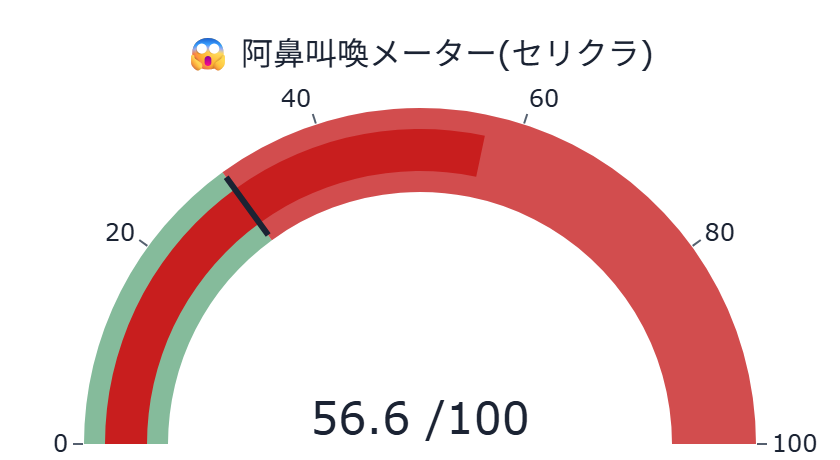
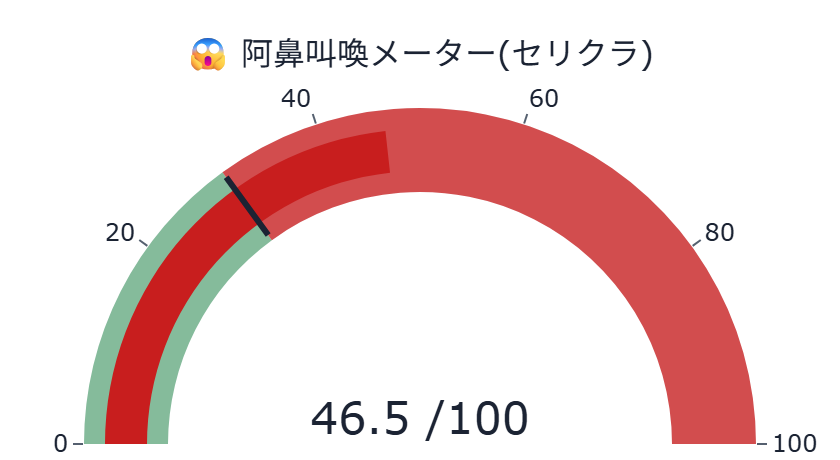
auto: refresh static dashboard (2026-08-25 00:50:18 JST)

Changed region(s): [[0.4333, 0.2739, 0.5881, 0.3957], [0.4333, 0.8522, 0.4952, 0.9435], [0.3714, 0.8522, 0.4024, 0.9435]]

diff --git a/docs/index.html b/docs/index.html
@@ -86,7 +86,7 @@
         <span class="price">50,930円</span>
         <span class="chg" style="color:#8B94A3">—</span>
       </div>
-      <p class="caption">更新時刻: 2026-08-25T00:38:35（データは1分間隔で自動生成され、このページも
+      <p class="caption">更新時刻: 2026-08-25T00:49:02（データは1分間隔で自動生成され、このページも
       60秒毎に自動再読み込みされます）</p>
       
       <p id='visit-count-badge' class='caption' style='display:none'></p>
@@ -105,7 +105,7 @@
           <h3>ボラ・レジーム帯</h3>
           <figure><img src='images/regime_band.png' alt='ボラ・レジーム帯' loading='lazy'></figure>
           <p class='caption'>現在レジーム: 較正中　(BVP=0.13)</p>
-          <div class='metric-row'><div class='metric-card'><div class='metric-label'>PTS（08/25 00:23）</div><div class='metric-value'>49,300円</div><div class='metric-delta' style='color:#1D4ED8'>-3.20%</div></div><div class='metric-card'><div class='metric-label'>米国ADR（08/25 00:44）</div><div class='metric-value'>49,877円</div><div class='metric-delta' style='color:#1D4ED8'>-2.07%</div></div></div><p class='caption'>PTS=東証取引時間外の私設取引システム／ADR=米国預託証券。翌営業日の値動きの参考情報です(それ自体が売買シグナルではありません)。</p>
+          <div class='metric-row'><div class='metric-card'><div class='metric-label'>PTS（08/25 00:23）</div><div class='metric-value'>49,300円</div><div class='metric-delta' style='color:#1D4ED8'>-3.20%</div></div><div class='metric-card'><div class='metric-label'>米国ADR（08/25 00:48）</div><div class='metric-value'>50,194円</div><div class='metric-delta' style='color:#1D4ED8'>-1.45%</div></div></div><p class='caption'>PTS=東証取引時間外の私設取引システム／ADR=米国預託証券。翌営業日の値動きの参考情報です(それ自体が売買シグナルではありません)。</p>
         </div>
       </div>
 
@@ -115,11 +115,11 @@
       <div class='info-box'>📌 前回の取引日(2026-08-24)からの状態変化: 「そう思う大量票」警戒→OK、「ネームド集中」OK→発火、「他銘柄混入率」警戒→発火、「暴落煽り語彙」警戒→OK、「阿鼻叫喚(セリクラ)」警戒→発火、「話題枯れ」OK→発火</div>
       <div class="panel"><div class='signal-row'><div class='signal-name'>灼熱メーター(過熱)<div class='signal-desc'>掲示板全体の強気/弱気の偏りと投稿の勢いから算出した「過熱度」の合成指標。</div></div><div class='signal-note'>過熱スコア6.1 (閾値36)</div><div><span style='display:inline-block;border-radius:999px;padding:2px 10px;font-size:.82em;font-weight:600;color:#fff;background:#15803D;white-space:nowrap'>OK (現在値6.10 / 閾値&gt;36)</span></div></div>
 <div class='signal-row'><div class='signal-name'>そう思う大量票<div class='signal-desc'>Yahoo!掲示板の「そう思う」共感ボタンが1投稿に集中して大量に押されているか。</div></div><div class='signal-note'>そう思う最大23票 (95超=過熱)</div><div><span style='display:inline-block;border-radius:999px;padding:2px 10px;font-size:.82em;font-weight:600;color:#fff;background:#15803D;white-space:nowrap'>OK (現在値23 / 閾値&gt;=95)</span></div></div>
-<div class='signal-row'><div class='signal-name'>イナゴ語彙(euphoria)<div class='signal-desc'>「爆上げ」「握力」等、熱狂・便乗を示す語彙が投稿にどれだけ含まれるか。</div></div><div class='signal-note'>euphoria指数2.5/100投稿</div><div><span style='display:inline-block;border-radius:999px;padding:2px 10px;font-size:.82em;font-weight:600;color:#fff;background:#15803D;white-space:nowrap'>OK (現在値2.50 / 閾値&gt;=5.5/100投稿)</span></div></div>
+<div class='signal-row'><div class='signal-name'>イナゴ語彙(euphoria)<div class='signal-desc'>「爆上げ」「握力」等、熱狂・便乗を示す語彙が投稿にどれだけ含まれるか。</div></div><div class='signal-note'>euphoria指数2.1/100投稿</div><div><span style='display:inline-block;border-radius:999px;padding:2px 10px;font-size:.82em;font-weight:600;color:#fff;background:#15803D;white-space:nowrap'>OK (現在値2.10 / 閾値&gt;=5.5/100投稿)</span></div></div>
 <div class='signal-row'><div class='signal-name'>ネームド集中<div class='signal-desc'>特定の常連投稿者(ハッシュ化ID)に投稿が偏っていないか(少数の声が目立ちすぎていないか)。</div></div><div class='signal-note'>上位5人シェア13%</div><div><span style='display:inline-block;border-radius:999px;padding:2px 10px;font-size:.82em;font-weight:600;color:#fff;background:#C81E1E;white-space:nowrap'>発火 (現在値0.13 / 閾値&gt;=0.1)</span></div></div>
-<div class='signal-row'><div class='signal-name'>他銘柄混入率<div class='signal-desc'>本銘柄の掲示板で他の銘柄コードへの言及がどれだけ多いか(関心が他へ移りつつあるサイン)。</div></div><div class='signal-note'>他銘柄言及11% (関心離散のサイン)</div><div><span style='display:inline-block;border-radius:999px;padding:2px 10px;font-size:.82em;font-weight:600;color:#fff;background:#C81E1E;white-space:nowrap'>発火 (現在値0.11 / 閾値&gt;=0.11)</span></div></div>
-<div class='signal-row'><div class='signal-name'>暴落煽り語彙<div class='signal-desc'>「暴落」「終わった」等、悲観・煽りを示す語彙が投稿にどれだけ含まれるか。</div></div><div class='signal-note'>煽り指数3.8/100投稿</div><div><span style='display:inline-block;border-radius:999px;padding:2px 10px;font-size:.82em;font-weight:600;color:#fff;background:#15803D;white-space:nowrap'>OK (現在値3.80 / 閾値&gt;=5.0/100投稿)</span></div></div>
-<div class='signal-row'><div class='signal-name'>阿鼻叫喚(セリクラ)<div class='signal-desc'>株価が安値圏にある中で悲観語彙が急増しているか(セリングクライマックスの兆候)。</div></div><div class='signal-note'>阿鼻叫喚スコア56.6 安値圏外</div><div><span style='display:inline-block;border-radius:999px;padding:2px 10px;font-size:.82em;font-weight:600;color:#fff;background:#C81E1E;white-space:nowrap'>発火 (現在値56.60 / 閾値&gt;30)</span></div></div>
+<div class='signal-row'><div class='signal-name'>他銘柄混入率<div class='signal-desc'>本銘柄の掲示板で他の銘柄コードへの言及がどれだけ多いか(関心が他へ移りつつあるサイン)。</div></div><div class='signal-note'>他銘柄言及13% (関心離散のサイン)</div><div><span style='display:inline-block;border-radius:999px;padding:2px 10px;font-size:.82em;font-weight:600;color:#fff;background:#C81E1E;white-space:nowrap'>発火 (現在値0.13 / 閾値&gt;=0.11)</span></div></div>
+<div class='signal-row'><div class='signal-name'>暴落煽り語彙<div class='signal-desc'>「暴落」「終わった」等、悲観・煽りを示す語彙が投稿にどれだけ含まれるか。</div></div><div class='signal-note'>煽り指数3.1/100投稿</div><div><span style='display:inline-block;border-radius:999px;padding:2px 10px;font-size:.82em;font-weight:600;color:#fff;background:#15803D;white-space:nowrap'>OK (現在値3.10 / 閾値&gt;=5.0/100投稿)</span></div></div>
+<div class='signal-row'><div class='signal-name'>阿鼻叫喚(セリクラ)<div class='signal-desc'>株価が安値圏にある中で悲観語彙が急増しているか(セリングクライマックスの兆候)。</div></div><div class='signal-note'>阿鼻叫喚スコア46.5 安値圏外</div><div><span style='display:inline-block;border-radius:999px;padding:2px 10px;font-size:.82em;font-weight:600;color:#fff;background:#C81E1E;white-space:nowrap'>発火 (現在値46.50 / 閾値&gt;30)</span></div></div>
 <div class='signal-row'><div class='signal-name'>話題枯れ<div class='signal-desc'>過去の平均と比べて本日の投稿数が著しく少ないか(閑散・関心低下のサイン)。</div></div><div class='signal-note'>投稿数z=-1.33 (負=閑散)</div><div><span style='display:inline-block;border-radius:999px;padding:2px 10px;font-size:.82em;font-weight:600;color:#fff;background:#C81E1E;white-space:nowrap'>発火 (現在値-1.33 / 閾値z&lt;-1)</span></div></div>
 <div class='signal-row'><div class='signal-name'>投稿サージ<div class='signal-desc'>過去の平均と比べて本日の投稿数が著しく多いか(急な注目集中のサイン)。</div></div><div class='signal-note'>投稿数z=-1.33 (量→ボラ予測が文献の主結果)</div><div><span style='display:inline-block;border-radius:999px;padding:2px 10px;font-size:.82em;font-weight:600;color:#fff;background:#15803D;white-space:nowrap'>OK (現在値-1.33 / 閾値z&gt;2)</span></div></div></div>
       <p class="caption">※研究・エンタメ用途・未検証。売買シグナルではありません。
@@ -150,22 +150,22 @@
       
 
       <h2>🤖 AI考察</h2>
-      <div class='metric-row'><div class='metric-card'><div class='metric-label'>株価</div><div class='metric-value'>50,930円</div><div class='metric-delta'>+0円</div></div><div class='metric-card'><div class='metric-label'>強気比率</div><div class='metric-value'>28.6%</div><div class='metric-delta'>-1.1pt</div></div><div class='metric-card'><div class='metric-label'>弱気比率</div><div class='metric-value'>63.7%</div><div class='metric-delta'>+1.2pt</div></div></div><p class='caption'>前回集計(2026-08-25T00:28:46)との比較</p>
-      <div class='ai-box'>本分析は掲示板の集計センチメントデータに基づく分析であり、投資助言ではありません。<br>
+      <div class='metric-row'><div class='metric-card'><div class='metric-label'>株価</div><div class='metric-value'>50,930円</div><div class='metric-delta'>+0円</div></div><div class='metric-card'><div class='metric-label'>強気比率</div><div class='metric-value'>30.0%</div><div class='metric-delta'>+1.4pt</div></div><div class='metric-card'><div class='metric-label'>弱気比率</div><div class='metric-value'>60.8%</div><div class='metric-delta'>-2.9pt</div></div></div><p class='caption'>前回集計(2026-08-25T00:38:35)との比較</p>
+      <div class='ai-box'>本件は掲示板の集計センチメントデータに基づく分析であり、投資助言ではありません。<br>
 <br>
-キオクシアホールディングス（285A）について、寄り付き前の現時点における掲示板の集計データを整理します。前営業日の終値は50,930円となっており、直近の日次推移を振り返ると、8月17日に一時的な高値を付けた後、現在は緩やかな調整局面にあることが見て取れます。<br>
+キオクシアホールディングス（285A）について、寄り付き前の現時点における掲示板の集計データを整理します。前営業日の終値は50,930円となっており、直近の日次推移を振り返ると、8月17日に一時的な高値を記録した後は、強気・弱気の比率が拮抗する展開から、直近では弱気寄りの推移を見せています。<br>
 <br>
-本日の掲示板におけるセンチメントは弱気寄りの傾向にあり、強気比率28.6%に対し、弱気比率は63.7%と高い水準を示しています。前回の集計時点（00:28）と比較すると、短時間で投稿数が52件増加している一方で、強気比率は1.1ポイント低下し、弱気比率は1.2ポイント上昇しており、ややネガティブな反応が加速する動きが見られます。<br>
+掲示板のセンチメントについては、強気比率30.0%に対し弱気比率60.8%となっており、全体として弱気な見方が優勢な状況です。総悲観度スコアは46.5を記録しています。前回集計（約7分前）と比較すると、投稿数は37件増加しており、強気比率は1.4ポイント上昇、弱気比率は2.9ポイント減少するなど、短時間でわずかにセンチメントの均衡が変化している様子が見て取れます。<br>
 <br>
-シグナル発火状況を確認すると、統計的な偏りを示す「発火」判定が複数確認されます。「ネームド集中」および「他銘柄混入率」の発火は、特定の層による関心の集中や、関心が他の銘柄へ分散している可能性を示唆しています。また、「阿鼻叫喚（セリクラ）」と「話題枯れ」の項目も発火しており、安値圏における反応の強さと、投稿数の統計的な減少という相反する状況が共存しています。前営業日からの変化としては、これらの指標の多くが「警戒」から「発火」へと移行しており、センチメントの構造に変化が生じていることが伺えます。<br>
+シグナル発火状況を確認すると、統計的な偏りを示すいくつかの指標において「発火」が確認されています。「ネームド集中」および「他銘柄混入率」の発火は、特定の層への関心の偏りや、話題の拡散・離散を示唆する動きです。また、「阿鼻叫喚（セリクラ）」と「話題枯れ」も発火しており、安値圏での反応がある一方で、投稿数自体は統計的に閑散としている状態にあります。前営業日からの変化としては、これら複数の指標が「警戒」から「発火」へと移行しており、センチメントの質的な変化が生じていることが伺えます。<br>
 <br>
-ボラティリティに関しては、現在はレジーム帯が「calibrating（較正中）」となっており、BVPは0.13と、現時点ではボラティリティの安定性を判断するためのデータ収集段階にあることを示しています。過熱度スコアは6.1と低く、統計的な過熱は見られません。<br>
+ボラティリティについては、現在のレジームが「calibrating（較正中）」となっており、BVPは0.13です。これは現在、ボラティリティの指標を算出・調整している段階であることを示しています。また、取引時間外の動きとして、PTSでは前日終値比マイナス3.2%、米国ADR円換算でもマイナス2.07%となっており、翌営業日の寄り付きに向けた参考情報として付随する動きを確認できます。<br>
 <br>
-なお、取引時間外の動きとして、PTSでは前日比-3.2%（49,300円）、米国ADR（円換算）では-2.7%（49,553円）となっており、翌営業日の寄り付きに向けた参考情報として意識される水準です。</div><p class='caption'>生成時刻: 2026-08-25T00:38:35</p>
+総じて、掲示板上では弱気な意見が目立つ一方で、特定のユーザーへの集中や話題の分散といった統計的な偏りが顕在化している状況です。</div><p class='caption'>生成時刻: 2026-08-25T00:49:02</p>
 
       <hr style="border:none;border-top:1px solid var(--border);margin:2rem 0 1rem">
       <p class="caption">⚠ 本情報は掲示板投稿を統計的に集計したものであり、投資助言ではありません。個別の投稿内容は含まれていません。研究・エンタメ用途です。</p>
-      <footer>生成: generate_static_dashboard.py（2026-08-25T00:49:13） /
+      <footer>生成: generate_static_dashboard.py（2026-08-25T00:50:07） /
       画像バックエンド: plotly+kaleido</footer>
     </div>
     <script>(function(){var url="https://script.google.com/macros/s/AKfycbwgSSGQ2n56ohmIYKlNDA1Xe3D8hd3GJbD0U90L4DGtXdb8pqrPokNMHJWjvN1__7bE/exec";var KEY='bbs_visit_counted';var already=sessionStorage.getItem(KEY);var action=already?'read':'hit';var ctrl=(typeof AbortController!=='undefined')?new AbortController():null;var timer=ctrl?setTimeout(function(){ctrl.abort();},5000):null;fetch(url+'?action='+action,{signal:ctrl?ctrl.signal:undefined}).then(function(r){if(timer)clearTimeout(timer);return r.json();}).then(function(data){if(!already)sessionStorage.setItem(KEY,'1');if(data&&typeof data.count==='number'){var el=document.getElementById('visit-count-badge');if(el){el.textContent='\u{1F440} \u7d2f\u8a08\u95b2\u89a7\u6570: '+data.count.toLocaleString();el.style.display='';}}}).catch(function(e){if(timer)clearTimeout(timer);console.warn('visit counter fetch failed (fail-soft):',e);});})();</script></body></html>
